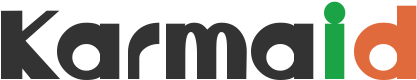
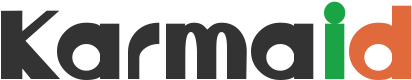
Karning again

diff --git a/karmaid/static/css/karmaid.css b/karmaid/static/css/karmaid.css
@@ -31,10 +31,10 @@ body {
 
 .brand a {
     display: block;
-    width: 156px;
-    height: 31px;
+    width: 155px;
+    height: 30px;
     background-image: url('../images/karmaid.png');
-    background-size: 156px 31px;
+    background-size: 155px 30px;
 }
 
 .nav .nav-link {
